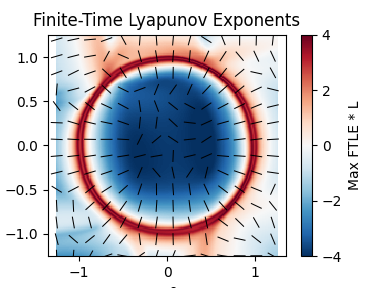
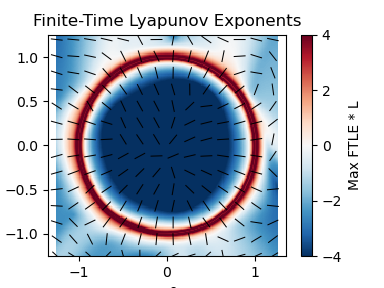
fixed LE computation
I need to remake my MNIST plots now.

diff --git a/code/position_classification.py b/code/position_classification.py
@@ -7,7 +7,6 @@ import matplotlib.pyplot as plt
 from sklearn.model_selection import train_test_split
 import os
 
-
 class DeepTanhNet(nn.Module):
     """
     Deep fully-connected neural network using Tanh activations.
@@ -96,10 +95,9 @@ class DeepTanhNet(nn.Module):
         cauchy_green_tensor = torch.transpose(jacobian, 1, 2) @ jacobian
         singular_values = torch.linalg.svdvals(cauchy_green_tensor)
         max_singular_values = singular_values[:, 0]
-        max_lyapunov_exponents = torch.log10(max_singular_values)
+        max_lyapunov_exponents = torch.log(max_singular_values)/2
 
         return max_lyapunov_exponents
-
 
 class PositionClassifcation:
     """
@@ -371,6 +369,7 @@ def main():
     pos_class_object.train_model()
     pos_class_object.plot_classification()
     pos_class_object.plot_finite_time_lyapunov_exponents()
+
 
 if __name__=="__main__":
     main()
